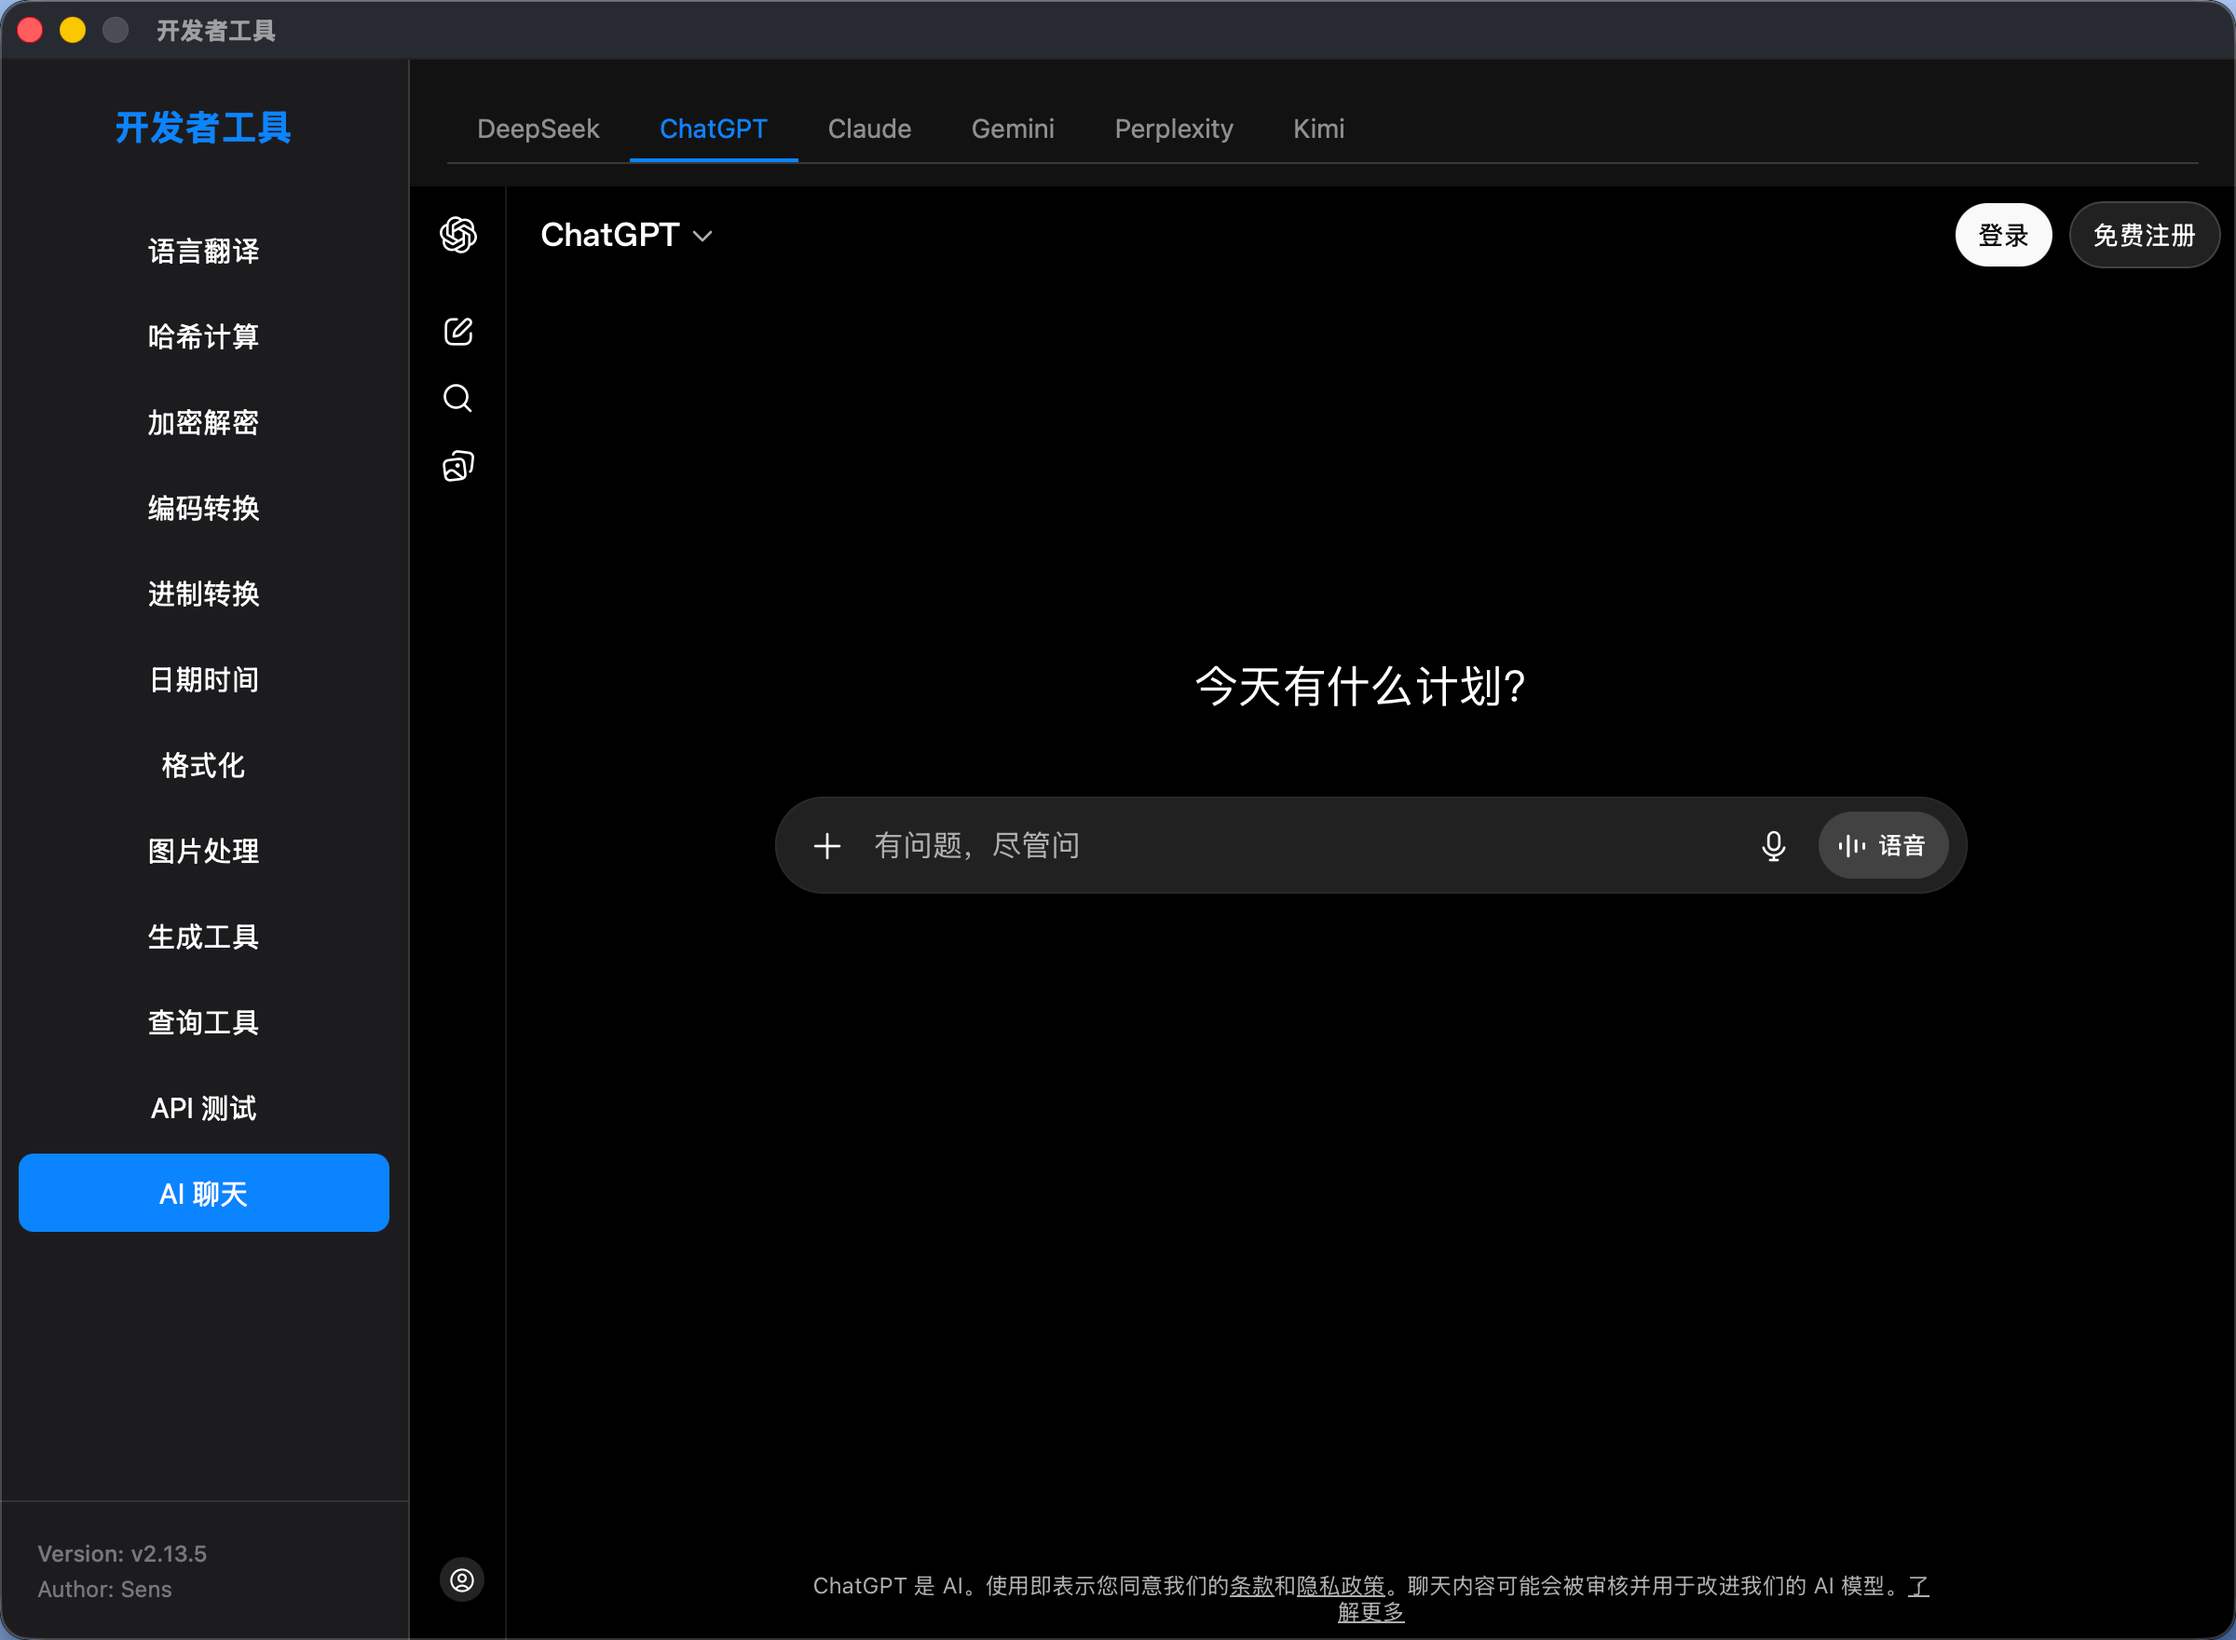
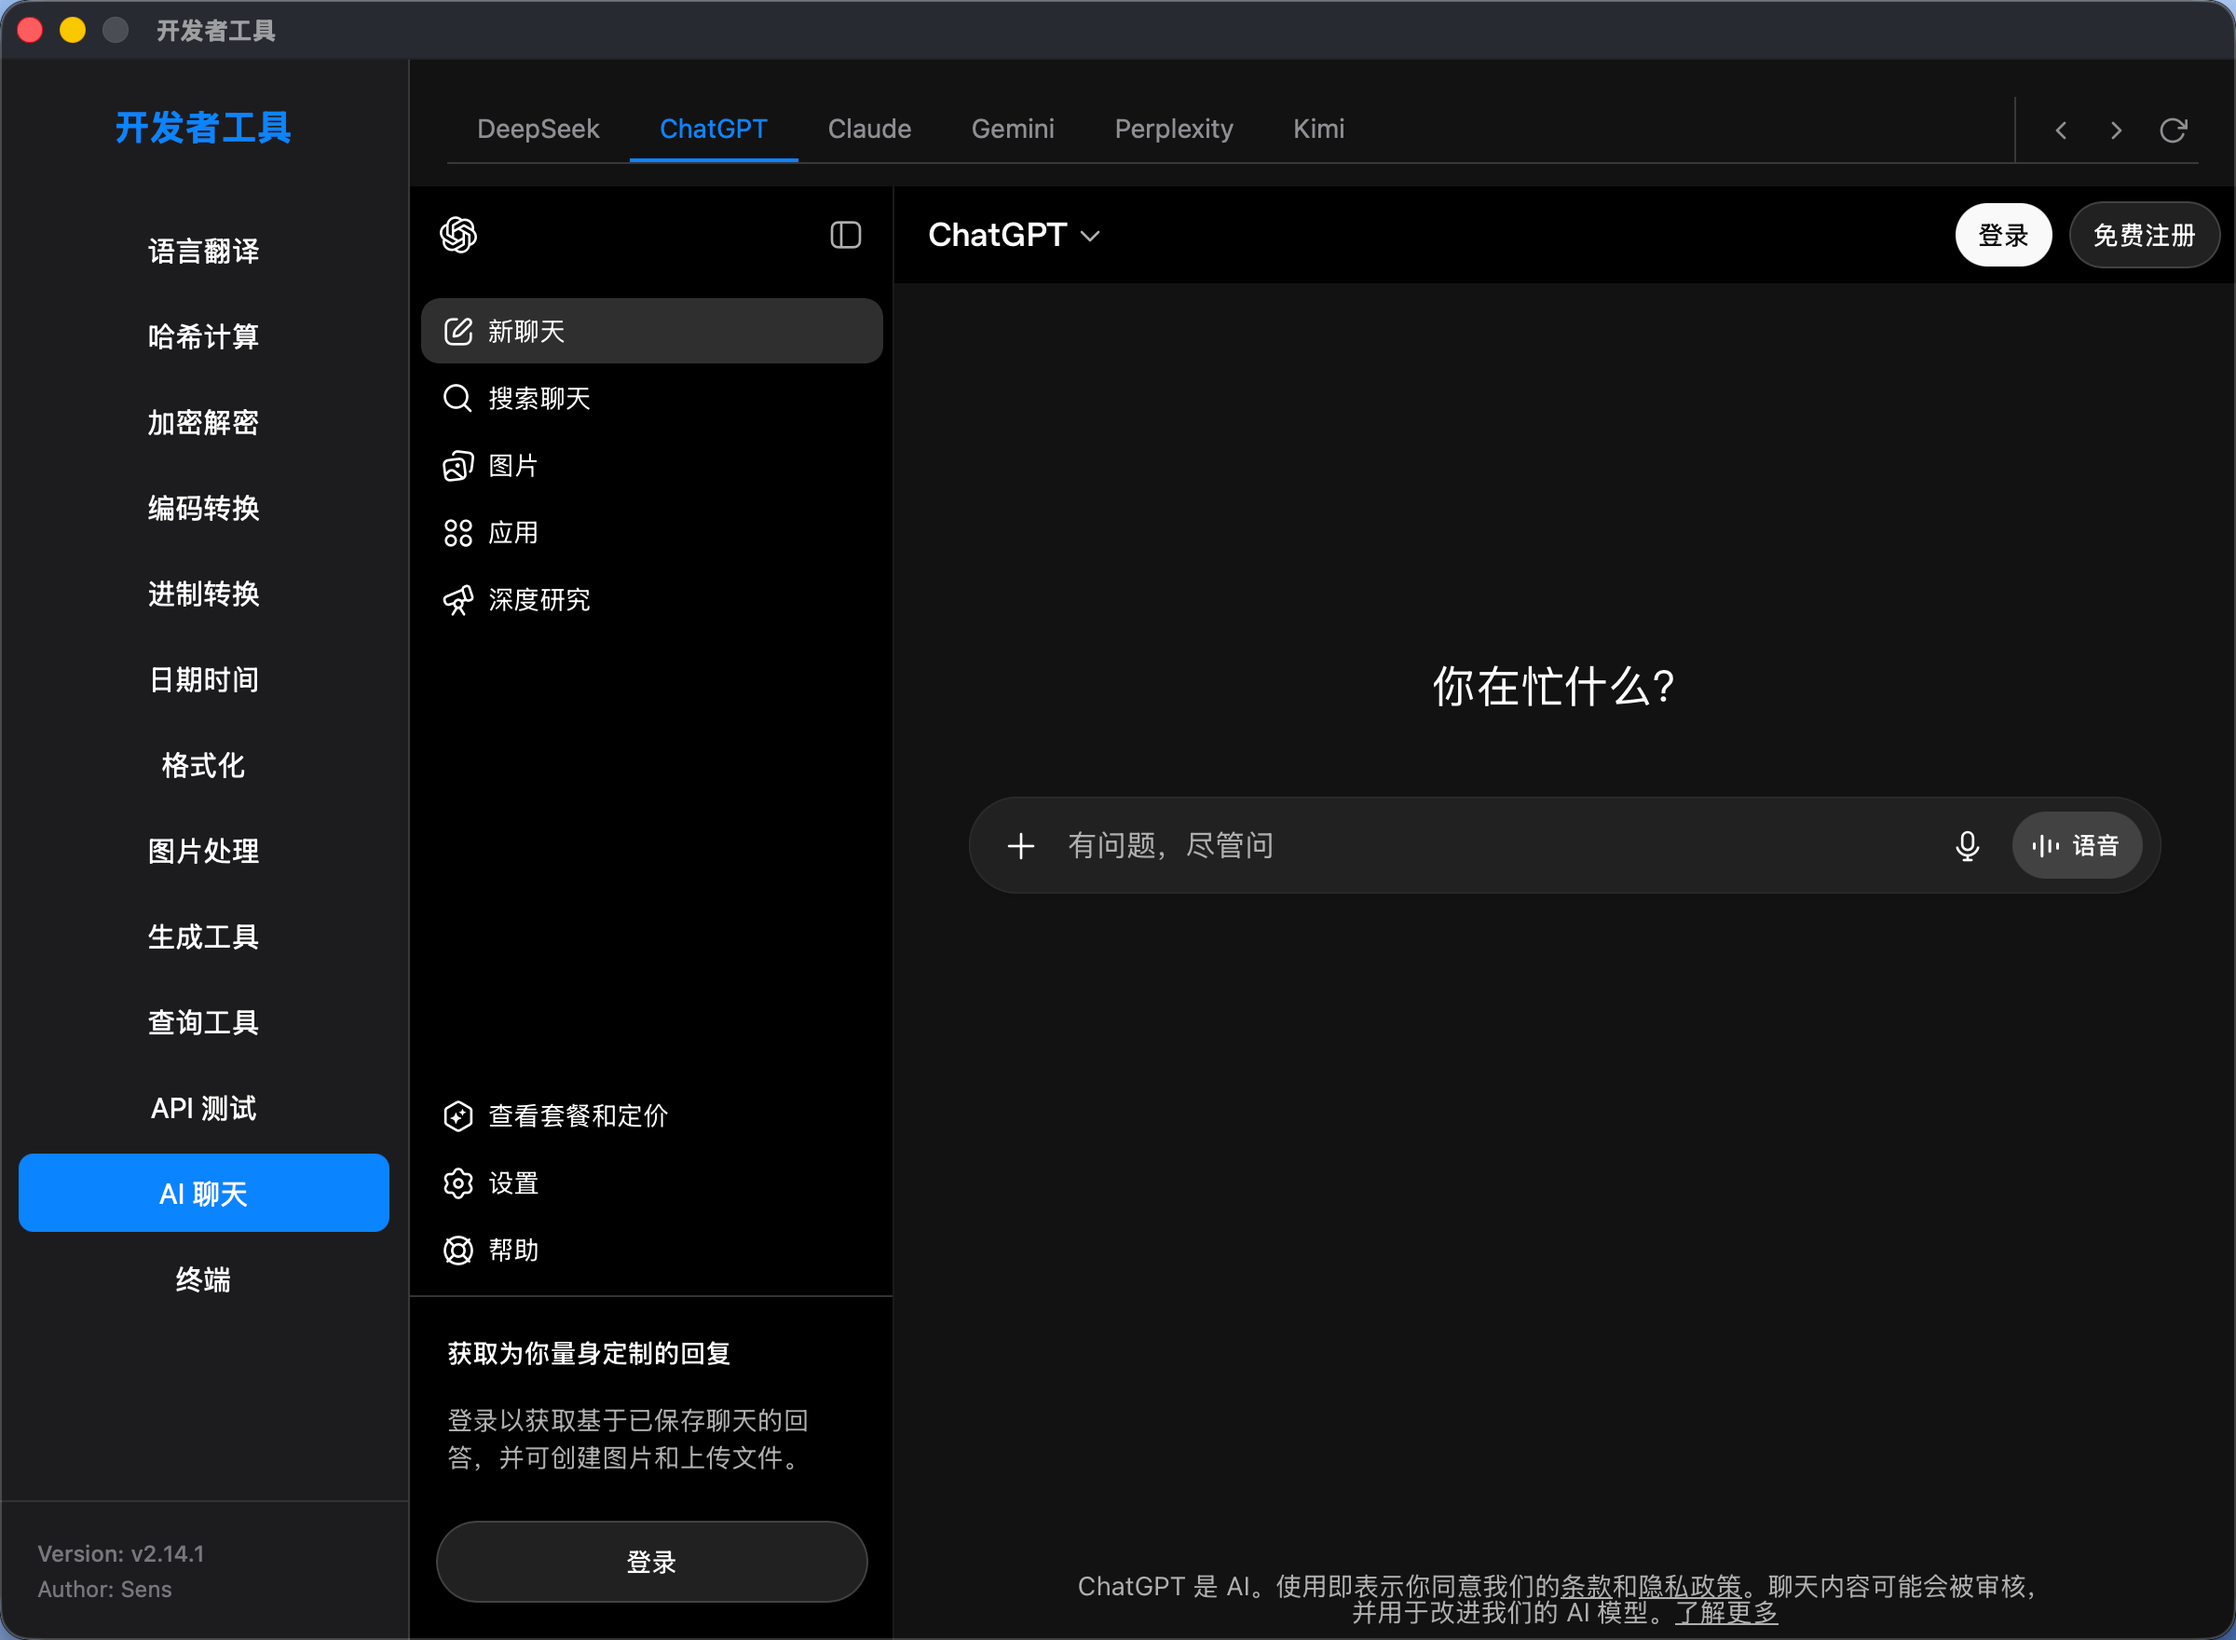
Add multi-terminal mode

diff --git a/web/index.html b/web/index.html
@@ -38,7 +38,7 @@
                 <button class="nav-item" data-tab="terminal">终端</button>
             </nav>
             <div class="sidebar-footer">
-                <div class="version">Version: v2.13.5</div>
+                <div class="version">Version: v2.14.1</div>
                 <div class="author">Author: Sens</div>
             </div>
         </aside>
@@ -1166,6 +1166,17 @@
                     <button class="sub-nav-item" data-url="https://gemini.google.com">Gemini</button>
                     <button class="sub-nav-item" data-url="https://www.perplexity.ai">Perplexity</button>
                     <button class="sub-nav-item" data-url="https://kimi.moonshot.cn">Kimi</button>
+                    <div class="aichat-nav-btns">
+                        <button id="aichat-btn-back" title="后退" class="aichat-nav-btn">
+                            <svg width="16" height="16" viewBox="0 0 24 24" fill="none" stroke="currentColor" stroke-width="2" stroke-linecap="round" stroke-linejoin="round"><polyline points="15 18 9 12 15 6"></polyline></svg>
+                        </button>
+                        <button id="aichat-btn-forward" title="前进" class="aichat-nav-btn">
+                            <svg width="16" height="16" viewBox="0 0 24 24" fill="none" stroke="currentColor" stroke-width="2" stroke-linecap="round" stroke-linejoin="round"><polyline points="9 18 15 12 9 6"></polyline></svg>
+                        </button>
+                        <button id="aichat-btn-reload" title="刷新" class="aichat-nav-btn">
+                            <svg width="16" height="16" viewBox="0 0 24 24" fill="none" stroke="currentColor" stroke-width="2" stroke-linecap="round" stroke-linejoin="round"><polyline points="23 4 23 10 17 10"></polyline><path d="M20.49 15a9 9 0 1 1-2.12-9.36L23 10"></path></svg>
+                        </button>
+                    </div>
                 </div>
                 <div id="aichat-placeholder" style="display: flex; align-items: center; justify-content: center; height: calc(100vh - 120px); color: var(--text-secondary); font-size: 14px;">
                     <p>正在加载...</p>

diff --git a/web/css/style.css b/web/css/style.css
@@ -810,3 +810,34 @@ input[type="radio"] {
 .term-tab .tab-close { flex-shrink:0;font-size:14px;line-height:1;opacity:0.4;padding:0 2px;margin-left:2px;border-radius:3px;color:#999; }
 .term-tab .tab-close:hover { opacity:1;color:#fff;background:#FF3B30; }
 .term-tab.active { background:#2d2d2d;color:#fff;font-weight:600;border-bottom:2px solid #007AFF; }
+
+/* ---- AI 聊天导航按钮 ---- */
+.aichat-nav-btns {
+    display: flex;
+    align-items: center;
+    gap: 2px;
+    margin-left: auto;
+    padding-left: 10px;
+    border-left: 1px solid var(--border-color);
+}
+
+.aichat-nav-btn {
+    min-width: 28px;
+    width: 28px;
+    height: 28px;
+    padding: 0;
+    border: none;
+    background: none;
+    color: var(--text-secondary);
+    cursor: pointer;
+    border-radius: 4px;
+    display: inline-flex;
+    align-items: center;
+    justify-content: center;
+    transition: all 0.2s;
+}
+
+.aichat-nav-btn:hover {
+    background-color: var(--hover-color);
+    color: var(--accent-color);
+}

diff --git a/web/js/app.js b/web/js/app.js
@@ -1284,6 +1284,14 @@ window.addEventListener('pywebviewready', () => {
         });
     });
 
+    // AI 聊天导航按钮
+    const aichatBackBtn = document.getElementById('aichat-btn-back');
+    const aichatForwardBtn = document.getElementById('aichat-btn-forward');
+    const aichatReloadBtn = document.getElementById('aichat-btn-reload');
+    if (aichatBackBtn) aichatBackBtn.addEventListener('click', () => pywebview.api.embed_browser_go_back());
+    if (aichatForwardBtn) aichatForwardBtn.addEventListener('click', () => pywebview.api.embed_browser_go_forward());
+    if (aichatReloadBtn) aichatReloadBtn.addEventListener('click', () => pywebview.api.embed_browser_reload());
+
     // 加密解密：算法子标签切换时更新 UI
     document.querySelectorAll('.sub-nav-item[data-sub^="crypto-algo-"]').forEach(btn => {
         btn.addEventListener('click', () => setTimeout(updateCryptoAlgoTabUI, 0));

diff --git a/backend/embedded_browser/_darwin.py b/backend/embedded_browser/_darwin.py
@@ -290,7 +290,10 @@ class EmbeddedBrowser:
             return self._views[tab_id]
 
         import AppKit
-        from WebKit import WKWebView, WKWebViewConfiguration, WKWebsiteDataStore
+        from WebKit import (
+            WKWebView, WKWebViewConfiguration, WKWebsiteDataStore,
+            WKUserContentController, WKUserScript,
+        )
         from Foundation import NSMakeRect, NSURL, NSURLRequest
 
         cw = self._main_content.frame().size.width
@@ -298,16 +301,57 @@ class EmbeddedBrowser:
 
         frame = NSMakeRect(SIDEBAR_W, TAB_BAR_H, max(cw - SIDEBAR_W, 100), ch - TAB_BAR_H)
 
+        # 检测当前外观模式，确定背景色
+        is_dark = False
+        try:
+            from AppKit import NSApp
+            best_match = NSApp.effectiveAppearance().bestMatchFromAppearancesWithNames_(
+                ["NSAppearanceNameDarkAqua", "NSAppearanceNameAqua"]
+            )
+            is_dark = best_match == "NSAppearanceNameDarkAqua"
+        except Exception:
+            pass
+
+        bg_hex = "#121212" if is_dark else "#F2F2F7"
+
         config = WKWebViewConfiguration.alloc().init()
         config.setWebsiteDataStore_(WKWebsiteDataStore.defaultDataStore())
         if self._process_pool:
             config.setProcessPool_(self._process_pool)
+
+        # 注入 CSS 在网页加载最早时机设置背景色，消除白色闪烁
+        try:
+            user_ctrl = WKUserContentController.alloc().init()
+            js_code = (
+                'var s=document.createElement("style");'
+                's.textContent="html,body{background-color:' + bg_hex + '}";'
+                'document.documentElement.appendChild(s);'
+            )
+            # WKUserScriptInjectionTimeAtDocumentStart = 0
+            script = WKUserScript.alloc().initWithSource_injectionTime_forMainFrameOnly_(
+                js_code, 0, True
+            )
+            user_ctrl.addUserScript_(script)
+            config.setUserContentController_(user_ctrl)
+        except Exception:
+            pass  # 非关键功能，静默忽略
 
         wv = WKWebView.alloc().initWithFrame_configuration_(frame, config)
         wv.setTranslatesAutoresizingMaskIntoConstraints_(True)
         wv.setAutoresizingMask_(
             AppKit.NSViewWidthSizable | AppKit.NSViewHeightSizable)
         wv.setHidden_(True)
+
+        # 设置原生层背景色（WKWebView 底层）
+        try:
+            from AppKit import NSColor
+            if is_dark:
+                bg_color = NSColor.colorWithRed_green_blue_alpha_(0.071, 0.071, 0.071, 1.0)
+            else:
+                bg_color = NSColor.colorWithRed_green_blue_alpha_(0.949, 0.949, 0.969, 1.0)
+            wv.setValue_forKey_(bg_color, "underPageBackgroundColor")
+        except Exception:
+            pass  # 非关键功能，静默忽略
 
         self._main_content.addSubview_(wv)
 
@@ -359,6 +403,45 @@ class EmbeddedBrowser:
             self._current = None
 
         self._run_on_main(_hide_and_save)
+
+    def go_back(self):
+        """当前标签页后退"""
+        if not self._current or self._current not in self._views:
+            return False
+        try:
+            def _back():
+                self._views[self._current].goBack()
+            self._run_on_main(_back)
+            return True
+        except Exception:
+            log.exception("go_back 失败")
+            return False
+
+    def go_forward(self):
+        """当前标签页前进"""
+        if not self._current or self._current not in self._views:
+            return False
+        try:
+            def _forward():
+                self._views[self._current].goForward()
+            self._run_on_main(_forward)
+            return True
+        except Exception:
+            log.exception("go_forward 失败")
+            return False
+
+    def reload(self):
+        """当前标签页刷新"""
+        if not self._current or self._current not in self._views:
+            return False
+        try:
+            def _reload():
+                self._views[self._current].reload()
+            self._run_on_main(_reload)
+            return True
+        except Exception:
+            log.exception("reload 失败")
+            return False
 
 
 _embedded_browser = None

diff --git a/backend/api.py b/backend/api.py
@@ -62,6 +62,36 @@ class Api:
         except Exception as e:
             return self._error(e)
 
+    def embed_browser_go_back(self):
+        """嵌入式浏览器后退"""
+        try:
+            from backend.embedded_browser import get_embedded_browser
+            eb = get_embedded_browser()
+            ok = eb.go_back()
+            return self._success(ok)
+        except Exception as e:
+            return self._error(e)
+
+    def embed_browser_go_forward(self):
+        """嵌入式浏览器前进"""
+        try:
+            from backend.embedded_browser import get_embedded_browser
+            eb = get_embedded_browser()
+            ok = eb.go_forward()
+            return self._success(ok)
+        except Exception as e:
+            return self._error(e)
+
+    def embed_browser_reload(self):
+        """嵌入式浏览器刷新"""
+        try:
+            from backend.embedded_browser import get_embedded_browser
+            eb = get_embedded_browser()
+            ok = eb.reload()
+            return self._success(ok)
+        except Exception as e:
+            return self._error(e)
+
     def get_local_permissions(self, platform):
         try:
             path = os.path.join(self.storage_dir, f"{platform}_perms.json")

diff --git a/main.py b/main.py
@@ -10,7 +10,7 @@ from backend.api import Api
 # git tag v1.0.0
 # git push origin v1.0.0
 
-DEBUG_MODE = True
+DEBUG_MODE = False
 
 # eruda — 轻量级移动端 DevTools，嵌入页面后无需系统配置即可使用 Console / Elements / Network 等面板
 ERUDA_INJECT_JS = """

diff --git a/backend/embedded_browser/_dummy.py b/backend/embedded_browser/_dummy.py
@@ -9,6 +9,15 @@ class EmbeddedBrowser:
     def hide(self):
         pass
 
+    def go_back(self):
+        return False
+
+    def go_forward(self):
+        return False
+
+    def reload(self):
+        return False
+
 
 _embedded_browser = None
 

diff --git a/README.md b/README.md
@@ -14,6 +14,7 @@
 ![](screenshot/11.png)
 ![](screenshot/12.png)
 ![](screenshot/13.png)
+![](screenshot/14.png)
 
 # windows 版本安装说明
 
